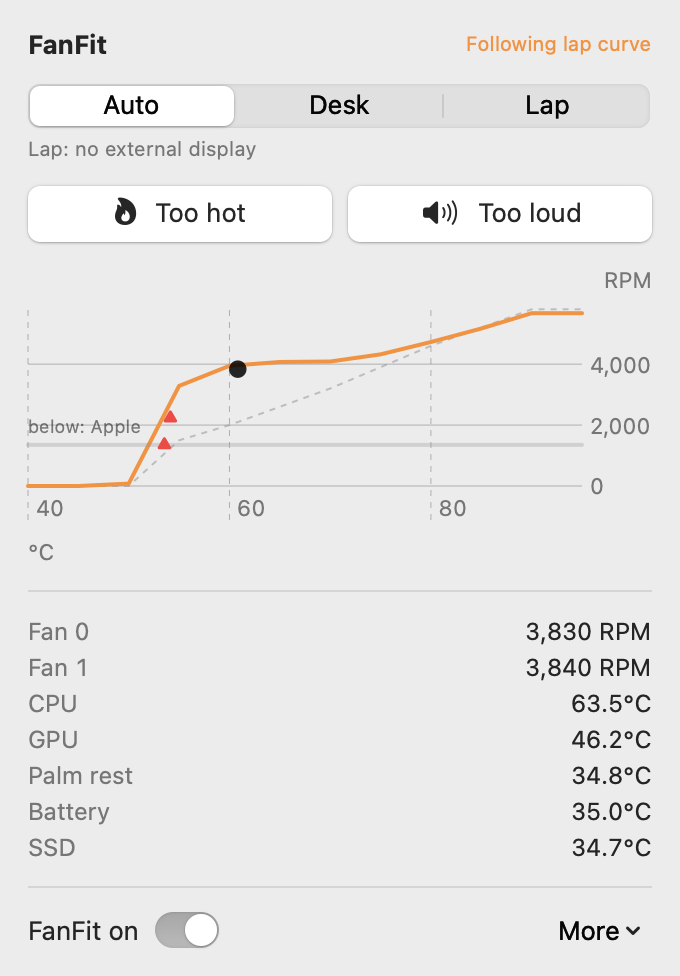
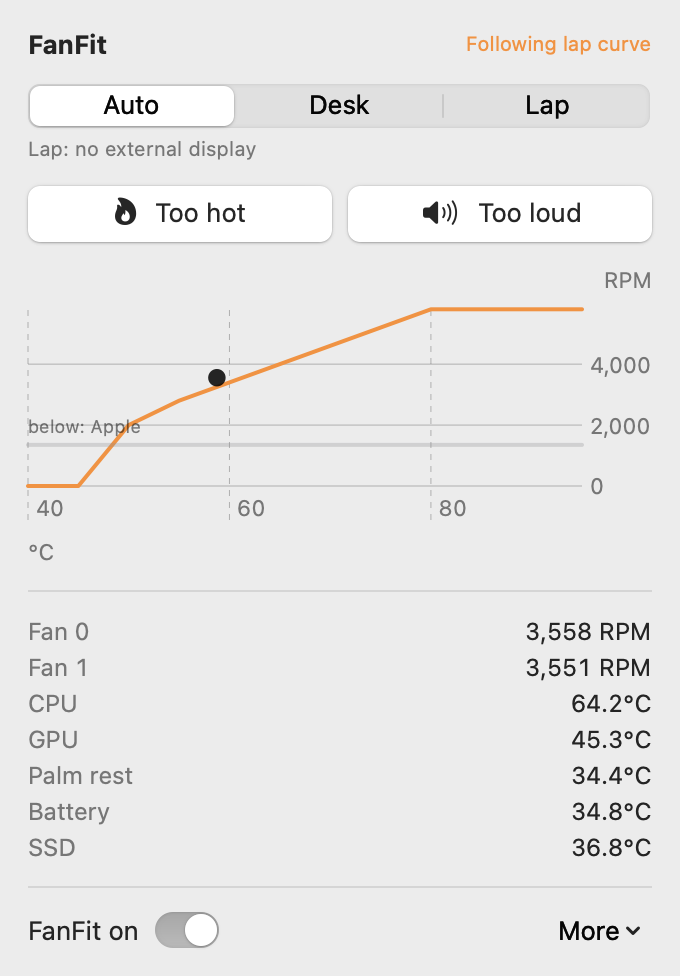
Fit curves locally, start from better defaults, stop Apple hand-back flapping
The old fitter penalised the second difference of the change, so a straight-line
shift cost nothing: four presses at 53°C lifted 40°C to 3,681 RPM and flattened
the ramp. The new fitter penalises the first difference, so a press fades out
over about 7°C, and solves the problem exactly with projected FISTA.

- Presses less than 15 s apart count as one stronger press.
- New lap and desk default curves, with the lap curve shaped on the first real presses.
- fanfitd holds the fans at their minimum for 60 s before it hands back to Apple,
  and smooths the input temperature fast up and slow down.
- Regression test replays the nine presses that exposed the flat curve.

diff --git a/Sources/FanFitCore/Curve.swift b/Sources/FanFitCore/Curve.swift
@@ -15,12 +15,13 @@ public struct Curve: Codable, Equatable, Sendable {
 
     public static func defaultCurve(for position: Position) -> Curve {
         switch position {
-        // At the desk, stay quiet and let the chip run warm.
+        // At the desk, stay quiet below 55°C and let the chip run warm.
         case .desk:
-            return Curve(temps: knotTemps, rpms: [0, 0, 0, 0, 0, 1800, 2400, 3000, 3800, 4600, 5300, 5800])
-        // On the lap, the bottom case touches skin, so start earlier.
+            return Curve(temps: knotTemps, rpms: [0, 0, 0, 0, 1800, 2400, 3000, 3700, 4400, 5100, 5800, 5800])
+        // On the lap, the bottom case touches skin, so start at 48°C and ramp steadily.
+        // Shaped on Jason's first presses: about 2,800 RPM wanted at 53°C, full speed by 75°C.
         case .lap:
-            return Curve(temps: knotTemps, rpms: [0, 0, 0, 1500, 2000, 2600, 3200, 3900, 4600, 5200, 5800, 5800])
+            return Curve(temps: knotTemps, rpms: [0, 0, 2000, 2800, 3400, 4000, 4600, 5200, 5800, 5800, 5800, 5800])
         }
     }
 
@@ -83,33 +84,28 @@ public struct Feedback: Codable, Equatable, Identifiable, Sendable {
     ///   - appleRunning: true when Apple's controller, not the curve, set the current speed.
     ///   - fanMin: the fans' minimum RPM; anything lower turns the fans over to Apple.
     ///   - fanMax: the fans' maximum RPM.
-    public static func make(kind: Kind, position: Position, temp: Double, rpm: Double, appleRunning: Bool,
-                            fanMin: Double, fanMax: Double, date: Date = Date()) -> Feedback {
+    ///   - repeating: the previous press, if it was the same kind within a few seconds. The fans
+    ///     have not caught up yet, so step on from its target instead of from the current speed.
+    public static func make(kind: Kind, position: Position, temp: Double, rpm measured: Double, appleRunning: Bool,
+                            fanMin: Double, fanMax: Double, repeating previous: Feedback? = nil,
+                            date: Date = Date()) -> Feedback {
+        let rpm = previous.map { kind == .tooHot ? Swift.max($0.target, measured) : Swift.min($0.target, measured) } ?? measured
         switch kind {
         case .tooHot:
             // Ask for a step you can hear the difference of: +30% or +700 RPM, at least 2,000.
             let want = Swift.min(Swift.max(rpm * 1.3, rpm + 700, 2000), fanMax)
-            return Feedback(date: date, kind: kind, position: position, temp: temp, rpm: rpm,
+            return Feedback(date: date, kind: kind, position: position, temp: temp, rpm: measured,
                             bound: .atLeast, target: want)
         case .tooLoud:
             let want = rpm * 0.8 - 100
             if appleRunning {
                 // Apple's own speed is too loud: take over at a lower speed.
-                return Feedback(date: date, kind: kind, position: position, temp: temp, rpm: rpm,
+                return Feedback(date: date, kind: kind, position: position, temp: temp, rpm: measured,
                                 bound: .exactly, target: Swift.max(want, fanMin + 50))
             }
             // Below the minimum the fans go back to Apple, which is quietest at these temps.
-            return Feedback(date: date, kind: kind, position: position, temp: temp, rpm: rpm,
+            return Feedback(date: date, kind: kind, position: position, temp: temp, rpm: measured,
                             bound: .atMost, target: want < fanMin ? 0 : want)
-        }
-    }
-
-    func isViolated(by curve: Curve) -> Bool {
-        let y = curve.rpm(at: temp)
-        switch bound {
-        case .atLeast: return y < target - 1
-        case .atMost: return y > target + 1
-        case .exactly: return abs(y - target) > 1
         }
     }
 }
@@ -117,92 +113,79 @@ public struct Feedback: Codable, Equatable, Identifiable, Sendable {
 /// Fits a curve to the button presses for one position.
 ///
 /// The fit moves the default curve as little as it can while meeting the
-/// presses: it minimises
-///   λ·|d|² + μ·|D²d|² + Σ wₑ (curve(Tₑ) − targetₑ)²
-/// where d is the change from the default and D² the second difference, so a
-/// press also lifts or lowers the neighbouring temperatures smoothly. Each
-/// press counts only while its bound is broken (an active set that only
-/// grows), newer presses weigh more, and the result is made non-decreasing.
+/// presses. It minimises
+///   λ·|d|² + μ·|D¹d|² + Σ wₑ · violationₑ²
+/// over non-decreasing curves between 0 and the fans' maximum, where d is the
+/// change from the default and D¹ its first difference. The first difference
+/// makes a press fade out over about sqrt(μ/λ) knots (7°C) on each side, so a
+/// press at 53°C leaves 40°C and 80°C alone. A press counts only while the
+/// curve breaks its bound, and newer presses weigh more.
+///
+/// The problem is convex, so projected gradient descent (FISTA) with the
+/// exact projection (pool adjacent violators, then clamp) finds the optimum.
 public enum CurveFitter {
     public static var halfLifeDays: Double = 21
-    static let lambda = 0.02
-    static let mu = 0.1
+    static let lambda = 1.0
+    static let mu = 2.0
     /// How hard a fresh press pulls compared with the smoothing terms.
-    static let pressWeight = 10.0
+    static let pressWeight = 300.0
+    static let iterations = 3000
 
     public static func fit(base: Curve, feedback: [Feedback], maxRPM: Double = 6000, now: Date = Date()) -> Curve {
         let n = base.temps.count
         guard n >= 3, !feedback.isEmpty else { return base }
 
-        let weights = feedback.map { e -> Double in
+        struct Press { let i: Int; let a: Double; let bound: Feedback.Bound; let target: Double; let w: Double }
+        let presses = feedback.map { e -> Press in
             let ageDays = Swift.max(0, now.timeIntervalSince(e.date)) / 86_400
-            return pressWeight * pow(0.5, ageDays / halfLifeDays)
-        }
-
-        var active = Set<Int>()
-        var curve = base
-        for _ in 0...feedback.count {
-            let newlyViolated = feedback.indices.filter { !active.contains($0) && feedback[$0].isViolated(by: curve) }
-            if newlyViolated.isEmpty { break }
-            active.formUnion(newlyViolated)
-            curve = solve(base: base, feedback: feedback, weights: weights, active: active)
-        }
-
-        var rpms = isotonic(curve.rpms)
-        rpms = rpms.map { Swift.min(Swift.max($0, 0), maxRPM).rounded() }
-        return Curve(temps: base.temps, rpms: rpms)
-    }
-
-    static func solve(base: Curve, feedback: [Feedback], weights: [Double], active: Set<Int>) -> Curve {
-        let n = base.temps.count
-        var A = [[Double]](repeating: [Double](repeating: 0, count: n), count: n)
-        var b = [Double](repeating: 0, count: n)
-
-        for i in 0..<n { A[i][i] += lambda }
-        for k in 1..<(n - 1) {
-            let coeffs = [(k - 1, 1.0), (k, -2.0), (k + 1, 1.0)]
-            for (i, ci) in coeffs { for (j, cj) in coeffs { A[i][j] += mu * ci * cj } }
-        }
-        for e in active {
-            let fb = feedback[e]
-            let t = Swift.min(Swift.max(fb.temp, base.temps[0]), base.temps[n - 1])
+            let t = Swift.min(Swift.max(e.temp, base.temps[0]), base.temps[n - 1])
             let (i, a) = Curve.segment(base.temps, t)
-            let coeffs = [(i, 1 - a), (i + 1, a)]
-            let residual = fb.target - base.rpm(at: t)
-            for (p, cp) in coeffs {
-                b[p] += weights[e] * cp * residual
-                for (q, cq) in coeffs { A[p][q] += weights[e] * cp * cq }
+            return Press(i: i, a: a, bound: e.bound, target: Swift.min(e.target, maxRPM),
+                         w: pressWeight * pow(0.5, ageDays / halfLifeDays))
+        }
+        let b = base.rpms.map { Swift.min($0, maxRPM) }
+        let lipschitz = 2 * (lambda + 4 * mu + presses.map(\.w).reduce(0, +))
+        let step = 1 / lipschitz
+
+        func gradient(_ x: [Double]) -> [Double] {
+            let d = zip(x, b).map { $0 - $1 }
+            var g = d.map { 2 * lambda * $0 }
+            for k in 0..<(n - 1) {
+                let diff = 2 * mu * (d[k + 1] - d[k])
+                g[k] -= diff
+                g[k + 1] += diff
             }
+            for p in presses {
+                let y = x[p.i] * (1 - p.a) + x[p.i + 1] * p.a
+                let r: Double
+                switch p.bound {
+                case .atLeast: r = Swift.min(0, y - p.target)
+                case .atMost: r = Swift.max(0, y - p.target)
+                case .exactly: r = y - p.target
+                }
+                g[p.i] += 2 * p.w * r * (1 - p.a)
+                g[p.i + 1] += 2 * p.w * r * p.a
+            }
+            return g
         }
 
-        let d = gaussianSolve(A, b) ?? [Double](repeating: 0, count: n)
-        return Curve(temps: base.temps, rpms: zip(base.rpms, d).map { $0 + $1 })
-    }
+        func project(_ y: [Double]) -> [Double] {
+            isotonic(y).map { Swift.min(Swift.max($0, 0), maxRPM) }
+        }
 
-    static func gaussianSolve(_ A: [[Double]], _ b: [Double]) -> [Double]? {
-        let n = b.count
-        var m = A
-        var v = b
-        for col in 0..<n {
-            guard let pivot = (col..<n).max(by: { abs(m[$0][col]) < abs(m[$1][col]) }), abs(m[pivot][col]) > 1e-12 else {
-                return nil
-            }
-            m.swapAt(col, pivot)
-            v.swapAt(col, pivot)
-            for row in (col + 1)..<n {
-                let f = m[row][col] / m[col][col]
-                if f == 0 { continue }
-                for k in col..<n { m[row][k] -= f * m[col][k] }
-                v[row] -= f * v[col]
-            }
+        // FISTA: gradient step from an extrapolated point, then project.
+        var x = project(b)
+        var z = x
+        var t = 1.0
+        for _ in 0..<iterations {
+            let g = gradient(z)
+            let next = project(zip(z, g).map { $0 - step * $1 })
+            let tNext = (1 + (1 + 4 * t * t).squareRoot()) / 2
+            z = zip(next, x).map { $0 + ((t - 1) / tNext) * ($0 - $1) }
+            x = next
+            t = tNext
         }
-        var x = [Double](repeating: 0, count: n)
-        for row in stride(from: n - 1, through: 0, by: -1) {
-            var s = v[row]
-            for k in (row + 1)..<n { s -= m[row][k] * x[k] }
-            x[row] = s / m[row][row]
-        }
-        return x
+        return Curve(temps: base.temps, rpms: x.map { $0.rounded() })
     }
 
     /// Closest non-decreasing sequence in the least-squares sense (pool adjacent violators).

diff --git a/Sources/fanfitd/main.swift b/Sources/fanfitd/main.swift
@@ -46,8 +46,13 @@ let safetyRelease = 90.0
 /// Most RPM the fans may change per second. Slow down-ramps keep the noise from pumping.
 let rampUp = 500.0
 let rampDown = 150.0
-/// Once following the curve, keep following it until it falls this far below the fans' minimum.
-let handBackMargin = 250.0
+/// Once following the curve, keep following it until it has sat below the fans' minimum this
+/// long. Without the hold, the fans flip between FanFit and Apple (often off) every few seconds.
+let handBackAfter: TimeInterval = 60
+/// Smoothing per second for the control temperature. It rises fast to catch real load and
+/// falls slowly, so a short CPU burst doesn't make the fans speed up and slow down.
+let smoothRise = 0.3
+let smoothFall = 0.05
 
 final class Controller {
     var control: Control?
@@ -57,6 +62,7 @@ final class Controller {
     var lastWritten: [Int: Double] = [:]
     var mode: FanMode = .paused
     var ownsFans = false
+    var belowMinSince: Date?
 
     func loadControl() {
         let attrs = try? FileManager.default.attributesOfItem(atPath: Paths.control.path)
@@ -78,7 +84,7 @@ final class Controller {
         let temps = smc.temperatures()
         var fans = smc.fans()
         let peak = Swift.max(temps.cpu ?? 0, temps.gpu ?? 0)
-        smoothed = smoothed.map { $0 + 0.3 * (peak - $0) } ?? peak
+        smoothed = smoothed.map { $0 + (peak > $0 ? smoothRise : smoothFall) * (peak - $0) } ?? peak
         let t = smoothed ?? peak
 
         let fanMin = fans.map(\.min).min() ?? 0
@@ -90,19 +96,21 @@ final class Controller {
             next = .safety
         } else if control?.enabled != true {
             next = .paused
-        } else if curveRPM < fanMin - (mode == .curve ? handBackMargin : 0) {
-            // The margin stops the fans flipping between FanFit and Apple where the curve crosses the minimum.
-            next = .apple
-        } else {
+        } else if curveRPM >= fanMin {
             next = .curve
+        } else if mode == .curve, Date().timeIntervalSince(belowMinSince ?? Date()) < handBackAfter {
+            next = .curve
+        } else {
+            next = .apple
         }
+        belowMinSince = curveRPM < fanMin ? (belowMinSince ?? Date()) : nil
         if next != mode { log("mode \(mode.rawValue) -> \(next.rawValue) at \(String(format: "%.1f", t))°C") }
 
         if next == .curve {
             // Start from the speed Apple left the fans at, so the hand-over is silent.
             let current = commanded ?? fans.map(\.actual).reduce(0, +) / Double(Swift.max(fans.count, 1))
             let step = Swift.min(Swift.max(curveRPM - current, -rampDown), rampUp)
-            let rpm = current + step
+            let rpm = Swift.max(current + step, fanMin)
             commanded = rpm
             for fan in fans {
                 let target = Swift.min(Swift.max(rpm, fan.min), fan.max)

diff --git a/Sources/FanFit/AppModel.swift b/Sources/FanFit/AppModel.swift
@@ -79,8 +79,18 @@ final class AppModel: ObservableObject {
     var fanMax: Double { status?.fans.map(\.max).max() ?? 6000 }
     var fanMin: Double { status?.fans.map(\.min).min() ?? 1300 }
 
+    private var curveCache: [Position: (key: [UUID], maxRPM: Double, day: Int, curve: Curve)] = [:]
+
+    /// The fitted curve. Cached because the panel asks for it on every redraw; a fit takes a few milliseconds.
     func curve(for p: Position) -> Curve {
-        CurveFitter.fit(base: .defaultCurve(for: p), feedback: state.feedback.filter { $0.position == p }, maxRPM: fanMax)
+        let presses = state.feedback.filter { $0.position == p }
+        let key = presses.map(\.id)
+        // Presses fade by age, so refit at least once a day.
+        let day = Int(Date().timeIntervalSince1970 / 86_400)
+        if let c = curveCache[p], c.key == key, c.maxRPM == fanMax, c.day == day { return c.curve }
+        let fitted = CurveFitter.fit(base: .defaultCurve(for: p), feedback: presses, maxRPM: fanMax)
+        curveCache[p] = (key, fanMax, day, fitted)
+        return fitted
     }
 
     func feedback(for p: Position) -> [Feedback] { state.feedback.filter { $0.position == p } }
@@ -103,9 +113,15 @@ final class AppModel: ObservableObject {
             show("Fans are already as slow as they go.")
             return
         }
+        // Presses a few seconds apart are one stronger press: replace the last one and step on from it.
+        var previous: Feedback?
+        if let last = state.feedback.last, last.kind == kind, last.position == p,
+           Date().timeIntervalSince(last.date) < 15 {
+            previous = state.feedback.removeLast()
+        }
         let before = curve(for: p).rpm(at: t)
-        let fb = Feedback.make(kind: kind, position: p, temp: t, rpm: rpm,
-                               appleRunning: status.mode != .curve, fanMin: fanMin, fanMax: fanMax)
+        let fb = Feedback.make(kind: kind, position: p, temp: t, rpm: rpm, appleRunning: status.mode != .curve,
+                               fanMin: fanMin, fanMax: fanMax, repeating: previous)
         state.feedback.append(fb)
         // Keep the newest 60 presses per position; older ones have decayed anyway.
         for pos in Position.allCases {

diff --git a/Tests/FanFitCoreTests/CurveFitterTests.swift b/Tests/FanFitCoreTests/CurveFitterTests.swift
@@ -52,6 +52,40 @@ final class CurveFitterTests: XCTestCase {
         XCTAssertLessThan(fitted.rpm(at: 70), 2400)
     }
 
+    /// Jason's first nine lap presses (2026-10-27). The old fitter turned them into a flat
+    /// 3,681 RPM shelf from 40°C up; the fit must stay local and keep the ramp.
+    func testRealLapPressesKeepTheRamp() {
+        let presses: [(Double, Double, Double)] = [
+            (53.5, 1404, 2104), (54.1, 2283, 2983), (52.8, 2719, 3535), (52.9, 2830, 3679),
+            (76.1, 4943, 5777), (76.1, 4943, 5777), (76.1, 4943, 5777), (74.8, 4782, 5777), (72.9, 5100, 5777),
+        ]
+        let feedback = presses.map {
+            Feedback(date: now, kind: .tooHot, position: .lap, temp: $0.0, rpm: $0.1, bound: .atLeast, target: $0.2)
+        }
+        let lap = Curve.defaultCurve(for: .lap)
+        let fitted = CurveFitter.fit(base: lap, feedback: feedback, maxRPM: 5777, now: now)
+        XCTAssertLessThan(fitted.rpm(at: 40), 1350, "40°C stays with Apple")
+        XCTAssertLessThan(fitted.rpm(at: 45), 1350, "45°C stays with Apple")
+        XCTAssertGreaterThan(fitted.rpm(at: 70) - fitted.rpm(at: 55), 1000, "the curve still ramps from 55 to 70°C")
+        for f in feedback { XCTAssertGreaterThan(fitted.rpm(at: f.temp), f.target * 0.95) }
+    }
+
+    func testPressFadesWithDistance() {
+        let press = fb(.tooHot, 70, 3000)
+        let fitted = CurveFitter.fit(base: base, feedback: [press], maxRPM: 5800, now: now)
+        let lift = { (t: Double) in fitted.rpm(at: t) - self.base.rpm(at: t) }
+        XCTAssertGreaterThan(lift(70), 900 * 0.97)
+        XCTAssertLessThan(lift(55), lift(65))
+        XCTAssertLessThan(lift(50), 100)
+    }
+
+    func testQuickRepeatStepsOnFromLastTarget() {
+        let first = fb(.tooHot, 60, 2000)
+        let second = Feedback.make(kind: .tooHot, position: .desk, temp: 60, rpm: 2050, appleRunning: false,
+                                   fanMin: 1350, fanMax: 5800, repeating: first)
+        XCTAssertGreaterThan(second.target, first.target + 600)
+    }
+
     func testIsotonic() {
         XCTAssertEqual(CurveFitter.isotonic([1, 3, 2, 4]), [1, 2.5, 2.5, 4])
     }

diff --git a/README.md b/README.md
@@ -61,16 +61,27 @@ Each press records the temperature and fan speed at that moment, and becomes a b
 | Too loud | No faster than 20% slower minus 100 RPM |
 | Too loud while Apple runs the fans | FanFit takes over at that slower speed |
 
-The fitter changes the default curve as little as it can while meeting the bounds. It solves a small least-squares problem:
+Presses less than 15 seconds apart count as one stronger press. Each one steps on from the previous target, because the fans have not caught up yet.
+
+The fitter changes the default curve as little as it can while meeting the bounds. It solves a small convex problem over non-decreasing curves between 0 RPM and the fans' maximum:
 
 ```
-minimise  λ·|d|² + μ·|D²d|² + Σ wᵢ · (curve(Tᵢ) − targetᵢ)²
+minimise  λ·|d|² + μ·|D¹d|² + Σ wᵢ · violationᵢ²
 ```
 
-- `d` is the change from the default curve. `D²` is its second difference, which spreads a press smoothly to nearby temperatures.
+- `d` is the change from the default curve. `D¹` is its first difference, which fades a press out over about 7°C on each side. A press at 53°C leaves 40°C and 80°C alone.
 - A press counts only while the curve breaks its bound.
 - A press loses half its weight every 21 days, so newer presses win conflicts.
-- A final pass makes the curve non-decreasing.
+- Projected gradient descent (FISTA) finds the optimum. The projection is pool-adjacent-violators, then a clamp.
+
+### Default curves
+
+| °C | 45 | 50 | 55 | 60 | 65 | 70 | 75 | 80 | 85 | 90 |
+| --- | --- | --- | --- | --- | --- | --- | --- | --- | --- | --- |
+| Lap | Apple | 2,000 | 2,800 | 3,400 | 4,000 | 4,600 | 5,200 | max | max | max |
+| Desk | Apple | Apple | Apple | 1,800 | 2,400 | 3,000 | 3,700 | 4,400 | 5,100 | max |
+
+"Apple" means Apple's controller runs the fans, which usually keeps them off. Once FanFit runs the fans, it keeps them at their minimum for 60 seconds after the curve drops below it before it hands back. The curve input rises quickly with the temperature and falls slowly, so a short CPU burst does not make the fans speed up and slow down.
 
 The code is in [`Sources/FanFitCore/Curve.swift`](Sources/FanFitCore/Curve.swift), and the tests are in [`Tests/FanFitCoreTests`](Tests/FanFitCoreTests).
 
